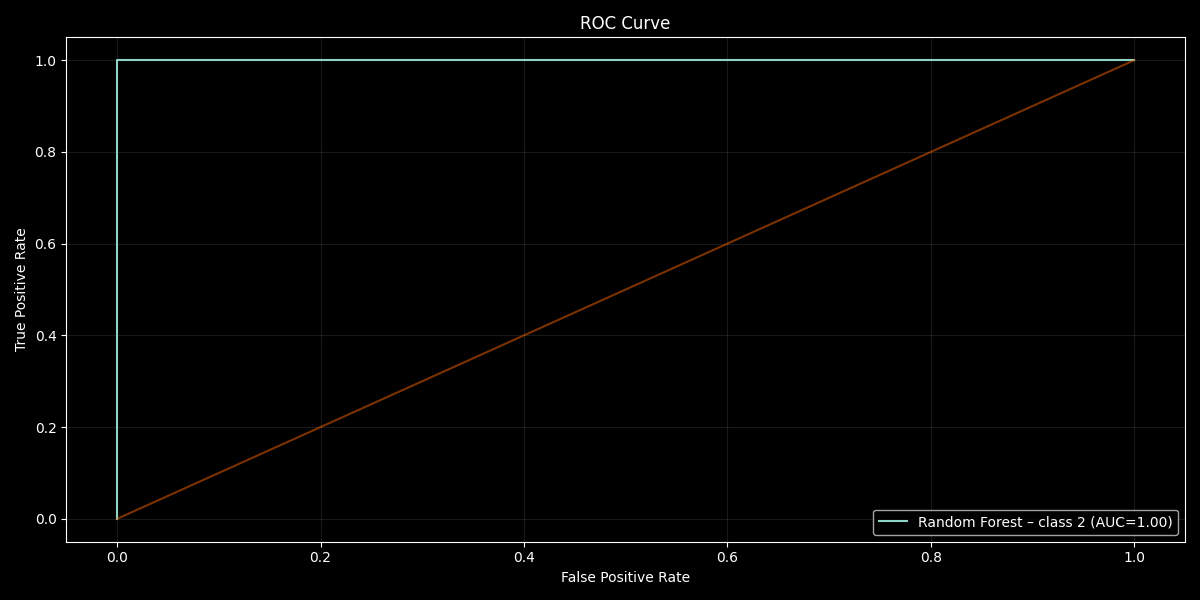
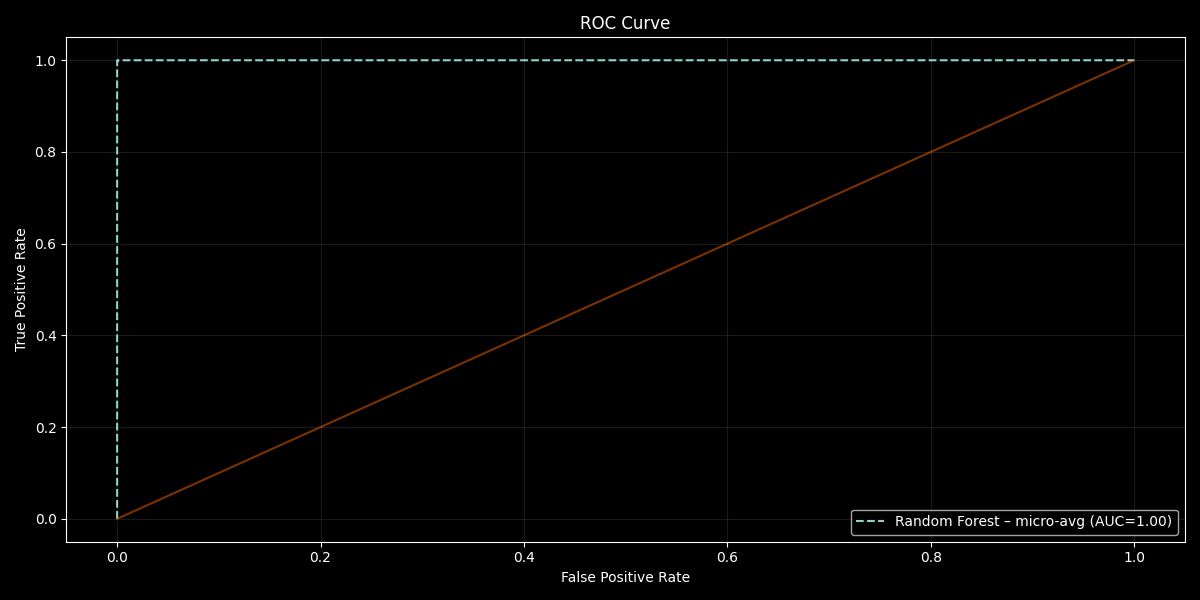
ipo

Changed region(s): [[0.0925, 0.09, 0.925, 0.12], [0.7092, 0.84, 0.9867, 0.9]]

diff --git a/darknet/src/comparison_graphs.py b/darknet/src/comparison_graphs.py
@@ -74,10 +74,7 @@ class ComparisonGraphs:
                 classes = unique_codes
 
             cm = confusion_matrix(y_true, y_pred)
-            
-            if model == 'Random Forest':
-                model = 'RF' 
-
+        
             sns.heatmap(cm, annot=True, fmt='d', cmap='inferno', cbar=False)
             plt.title(f"Confusion Matrix for {model}", color='white')
             plt.xlabel("Predicted", color='white')
@@ -246,7 +243,6 @@ class ComparisonGraphs:
         models = list(self.results.keys())
         times = [self.results[m]['train_time'] for m in models]
 
-        colors = ['#3498db', '#2ecc71', '#e74c3c', '#f39c12', '#9b59b6', '#1abc9c']
         bars = plt.bar(models, times, color='#f66500', edgecolor='white', linewidth=1.2)
 
         # Add time values as text on top of bars
@@ -329,20 +325,17 @@ class ComparisonGraphs:
             x='Model',
             y=metric_name,
             data=df,
+            color='#f66500'
         )
 
         plt.title(f"{metric_name.capitalize()} Comparison Across Models", color='white')
         plt.xlabel("Models", color='white')
         plt.ylabel(metric_name.capitalize(), color='white')
-        plt.xticks(rotation=45, color='white')
+        plt.xticks(color='white')
         plt.tick_params(colors='white')
         
-        used_colors = set('blue')
         for i, v in enumerate(metric_v):
             ax.text(i, v + 0.01, f"{v:.2f}", ha='center', fontsize=12, color='white')
-            color='blue'
-            while color in used_colors:
-                color = random.choice(plt.cm.Set3.colors)
 
         plt.tight_layout()
         plt.savefig(save_path, facecolor='black', edgecolor='none')

diff --git a/darknet/src/main.py b/darknet/src/main.py
@@ -60,8 +60,8 @@ def main():
     
     results = compare_models(data)
     graphs = comparison_graphs.ComparisonGraphs(results)
-    graphs.plot_roc_curves(model_name="Random Forest", class_label=2)
-    graphs.plot_precision_recall_curves(model_name="Random Forest", class_label=2)
+    graphs.plot_roc_curves(model_name="Random Forest")
+    graphs.plot_precision_recall_curves(model_name="Random Forest")
     graphs.plot_runtime_comparison()
     graphs.plot_confusion_matrix(decoder=data.decode_labels)
     graphs.plot_metric_comparison("accuracy")
